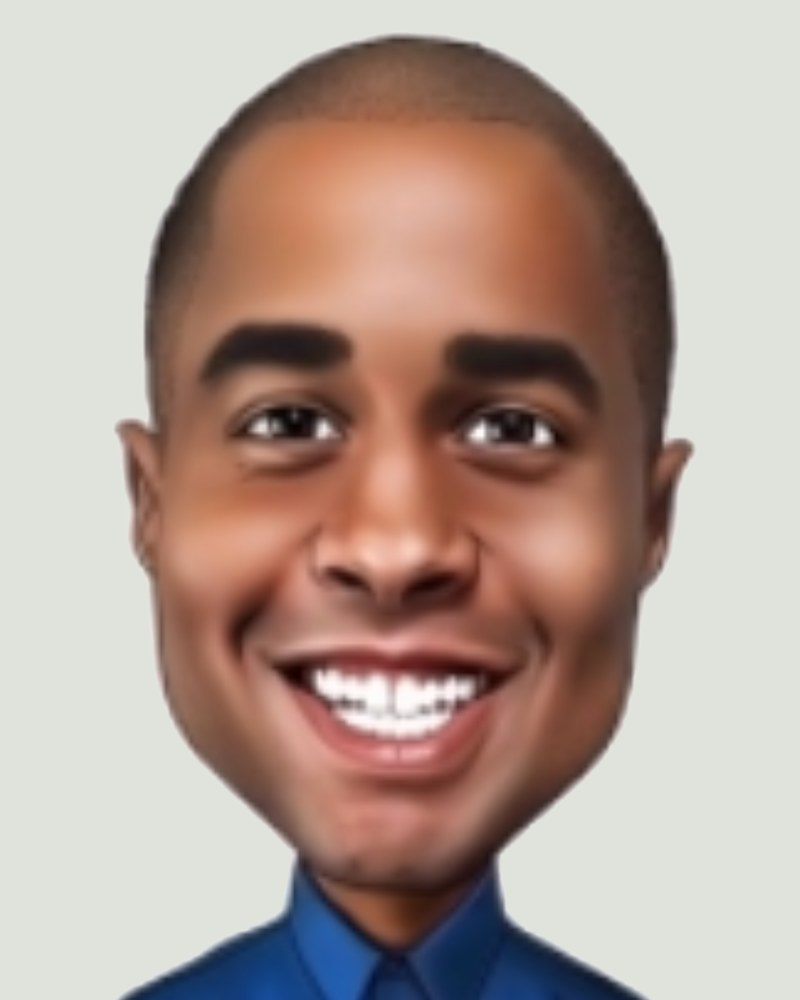
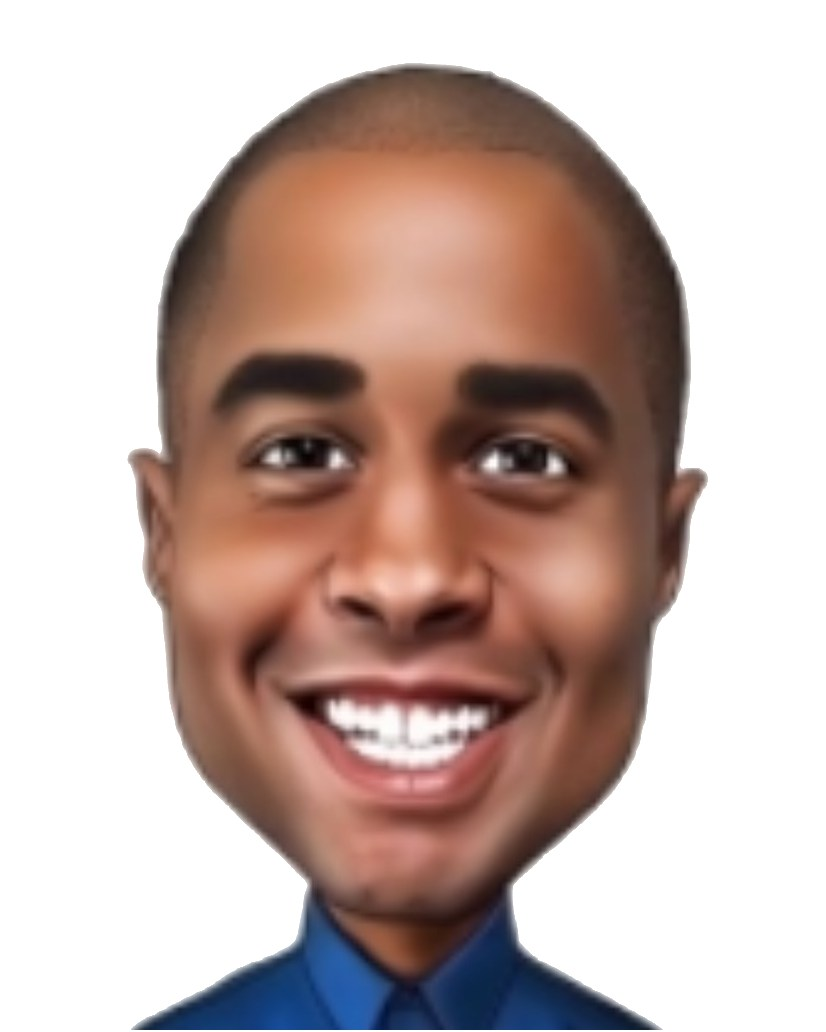
Remove Leslie from team page, whiten Cain's photo, drop review note from footer
- team.html: remove Leslie Buckley's card
- assets/team/cain-piho.jpg: replace grey-green background with white and
  reframe to match the other team portraits
- All pages: drop "Website design concept for review." from the footer

diff --git a/flying-buttress-redesign/team.html b/flying-buttress-redesign/team.html
@@ -61,7 +61,6 @@
 <li><article class="team-card"><figure class="team-photo"><span class="team-initials" aria-hidden="true">NP</span><img src="https://flyingbuttress.com/wp-content/uploads/2021/04/Nick-scaled.jpg" alt="Portrait of Nick Phan" loading="lazy" onerror="this.remove()"/></figure><div class="team-body"><h3>Nick Phan</h3><p class="team-role">Title to confirm</p><a class="team-link" href="https://www.linkedin.com/in/nick-phan-a52b0/" target="_blank" rel="noopener noreferrer" aria-label="Nick Phan on LinkedIn">LinkedIn <span class="arrow" aria-hidden="true">&nearr;</span></a></div></article></li>
 <li><article class="team-card"><figure class="team-photo"><span class="team-initials" aria-hidden="true">JH</span><img src="https://flyingbuttress.com/wp-content/uploads/2021/04/Jon-scaled.jpg" alt="Portrait of Jon Howe" loading="lazy" onerror="this.remove()"/></figure><div class="team-body"><h3>Jon Howe</h3><p class="team-role">Title to confirm</p></div></article></li>
 <li><article class="team-card"><figure class="team-photo"><span class="team-initials" aria-hidden="true">CP</span><img src="assets/team/cain-piho.jpg" alt="Portrait of Cain Piho" loading="lazy" onerror="this.remove()"/></figure><div class="team-body"><h3>Cain Piho</h3><p class="team-role">Title to confirm</p></div></article></li>
-<li><article class="team-card"><figure class="team-photo"><span class="team-initials" aria-hidden="true">LB</span><img src="https://flyingbuttress.com/wp-content/uploads/2021/04/Leslie-scaled.jpg" alt="Portrait of Leslie Buckley" loading="lazy" onerror="this.remove()"/></figure><div class="team-body"><h3>Leslie Buckley</h3><p class="team-role">Title to confirm</p></div></article></li>
 <li><article class="team-card"><figure class="team-photo"><span class="team-initials" aria-hidden="true">BT</span><img src="https://flyingbuttress.com/wp-content/uploads/2021/04/Brittany-scaled.jpg" alt="Portrait of Brittany Tredinnick" loading="lazy" onerror="this.remove()"/></figure><div class="team-body"><h3>Brittany Tredinnick</h3><p class="team-role">Title to confirm</p></div></article></li>
 </ul></div></section>
 <section class="interior-pad"><div class="container"><div class="eyebrow eyebrow-plus">With special assistance from</div>
@@ -85,7 +84,7 @@
   <div><div class="footer-heading">Flying Buttress</div><nav class="footer-links" aria-label="Company navigation"><a href="about.html">Our story</a><a href="team.html">Team</a><a href="contact.html">Get in touch</a><a href="https://www.linkedin.com/company/flying-buttress" target="_blank" rel="noopener noreferrer">LinkedIn &nearr;</a><a href="brand.html">Brand concept</a></nav></div>
   <div class="footer-contact"><div class="footer-heading">Start here</div><p>Architecture, engineering, and design firms deserve a technology partner that knows their world.</p><a href="tel:+19498925075">(949) 892-5075</a><div class="footer-links"><a href="mailto:info@flyingbuttress.com">info@flyingbuttress.com</a></div></div>
  </div>
- <div class="footer-bottom"><span>&copy; 2026 Flying Buttress. Website design concept for review.</span><span>Made for the design world &nbsp; / &nbsp; <a href="contact.html">Contact</a></span></div>
+ <div class="footer-bottom"><span>&copy; 2026 Flying Buttress.</span><span>Made for the design world &nbsp; / &nbsp; <a href="contact.html">Contact</a></span></div>
 </div></footer>
 <script defer src="assets/site.js"></script>
 </body></html>

diff --git a/flying-buttress-redesign/contact.html b/flying-buttress-redesign/contact.html
@@ -48,7 +48,7 @@
   <div><div class="footer-heading">Flying Buttress</div><nav class="footer-links" aria-label="Company navigation"><a href="about.html">Our story</a><a href="team.html">Team</a><a href="contact.html">Get in touch</a><a href="https://www.linkedin.com/company/flying-buttress" target="_blank" rel="noopener noreferrer">LinkedIn &nearr;</a><a href="brand.html">Brand concept</a></nav></div>
   <div class="footer-contact"><div class="footer-heading">Start here</div><p>Architecture, engineering, and design firms deserve a technology partner that knows their world.</p><a href="tel:+19498925075">(949) 892-5075</a><div class="footer-links"><a href="mailto:info@flyingbuttress.com">info@flyingbuttress.com</a></div></div>
  </div>
- <div class="footer-bottom"><span>&copy; 2026 Flying Buttress. Website design concept for review.</span><span>Made for the design world &nbsp; / &nbsp; <a href="contact.html">Contact</a></span></div>
+ <div class="footer-bottom"><span>&copy; 2026 Flying Buttress.</span><span>Made for the design world &nbsp; / &nbsp; <a href="contact.html">Contact</a></span></div>
 </div></footer><script>
 /* Posts the inquiry to the Azure Function at /api/contact. Runs in the capture phase so it replaces the mailto handoff in assets/site.js. */
 (function(){

diff --git a/flying-buttress-redesign/homepage-standalone.html b/flying-buttress-redesign/homepage-standalone.html
@@ -121,7 +121,7 @@ a:focus-visible,button:focus-visible,input:focus-visible,textarea:focus-visible,
 <div><div class="footer-heading">Flying Buttress</div><nav aria-label="Company navigation" class="footer-links"><a href="about.html">Our story</a><a href="team.html">Team</a><a href="contact.html">Get in touch</a><a href="https://www.linkedin.com/company/flying-buttress" rel="noopener noreferrer" target="_blank">LinkedIn ↗</a><a href="brand.html">Brand concept</a></nav></div>
 <div class="footer-contact"><div class="footer-heading">Start here</div><p>Architecture, engineering, and design firms deserve a technology partner that knows their world.</p><a href="tel:+19498925075">(949) 892-5075</a><div class="footer-links"><a href="mailto:info@flyingbuttress.com">info@flyingbuttress.com</a></div></div>
 </div>
-<div class="footer-bottom"><span>© 2026 Flying Buttress. Website design concept for review.</span><span>Made for the design world   /   <a href="contact.html">Contact</a></span></div>
+<div class="footer-bottom"><span>© 2026 Flying Buttress.</span><span>Made for the design world   /   <a href="contact.html">Contact</a></span></div>
 </div></footer>
 <script>(function(){
  'use strict';

diff --git a/flying-buttress-redesign/about.html b/flying-buttress-redesign/about.html
@@ -43,7 +43,7 @@
   <div><div class="footer-heading">Flying Buttress</div><nav class="footer-links" aria-label="Company navigation"><a href="about.html">Our story</a><a href="team.html">Team</a><a href="contact.html">Get in touch</a><a href="https://www.linkedin.com/company/flying-buttress" target="_blank" rel="noopener noreferrer">LinkedIn &nearr;</a><a href="brand.html">Brand concept</a></nav></div>
   <div class="footer-contact"><div class="footer-heading">Start here</div><p>Architecture, engineering, and design firms deserve a technology partner that knows their world.</p><a href="tel:+19498925075">(949) 892-5075</a><div class="footer-links"><a href="mailto:info@flyingbuttress.com">info@flyingbuttress.com</a></div></div>
  </div>
- <div class="footer-bottom"><span>&copy; 2026 Flying Buttress. Website design concept for review.</span><span>Made for the design world &nbsp; / &nbsp; <a href="contact.html">Contact</a></span></div>
+ <div class="footer-bottom"><span>&copy; 2026 Flying Buttress.</span><span>Made for the design world &nbsp; / &nbsp; <a href="contact.html">Contact</a></span></div>
 </div></footer>
 <script defer src="assets/site.js"></script>
 </body></html>

diff --git a/flying-buttress-redesign/brand.html b/flying-buttress-redesign/brand.html
@@ -41,7 +41,7 @@
   <div><div class="footer-heading">Flying Buttress</div><nav class="footer-links" aria-label="Company navigation"><a href="about.html">Our story</a><a href="team.html">Team</a><a href="contact.html">Get in touch</a><a href="https://www.linkedin.com/company/flying-buttress" target="_blank" rel="noopener noreferrer">LinkedIn &nearr;</a><a href="brand.html">Brand concept</a></nav></div>
   <div class="footer-contact"><div class="footer-heading">Start here</div><p>Architecture, engineering, and design firms deserve a technology partner that knows their world.</p><a href="tel:+19498925075">(949) 892-5075</a><div class="footer-links"><a href="mailto:info@flyingbuttress.com">info@flyingbuttress.com</a></div></div>
  </div>
- <div class="footer-bottom"><span>&copy; 2026 Flying Buttress. Website design concept for review.</span><span>Made for the design world &nbsp; / &nbsp; <a href="contact.html">Contact</a></span></div>
+ <div class="footer-bottom"><span>&copy; 2026 Flying Buttress.</span><span>Made for the design world &nbsp; / &nbsp; <a href="contact.html">Contact</a></span></div>
 </div></footer>
 <script defer src="assets/site.js"></script>
 </body></html>

diff --git a/flying-buttress-redesign/index.html b/flying-buttress-redesign/index.html
@@ -77,7 +77,7 @@
   <div><div class="footer-heading">Flying Buttress</div><nav class="footer-links" aria-label="Company navigation"><a href="about.html">Our story</a><a href="team.html">Team</a><a href="contact.html">Get in touch</a><a href="https://www.linkedin.com/company/flying-buttress" target="_blank" rel="noopener noreferrer">LinkedIn &nearr;</a><a href="brand.html">Brand concept</a></nav></div>
   <div class="footer-contact"><div class="footer-heading">Start here</div><p>Architecture, engineering, and design firms deserve a technology partner that knows their world.</p><a href="tel:+19498925075">(949) 892-5075</a><div class="footer-links"><a href="mailto:info@flyingbuttress.com">info@flyingbuttress.com</a></div></div>
  </div>
- <div class="footer-bottom"><span>&copy; 2026 Flying Buttress. Website design concept for review.</span><span>Made for the design world &nbsp; / &nbsp; <a href="contact.html">Contact</a></span></div>
+ <div class="footer-bottom"><span>&copy; 2026 Flying Buttress.</span><span>Made for the design world &nbsp; / &nbsp; <a href="contact.html">Contact</a></span></div>
 </div></footer>
 <script defer src="assets/site.js"></script>
 </body></html>

diff --git a/flying-buttress-redesign/industries.html b/flying-buttress-redesign/industries.html
@@ -46,7 +46,7 @@
   <div><div class="footer-heading">Flying Buttress</div><nav class="footer-links" aria-label="Company navigation"><a href="about.html">Our story</a><a href="team.html">Team</a><a href="contact.html">Get in touch</a><a href="https://www.linkedin.com/company/flying-buttress" target="_blank" rel="noopener noreferrer">LinkedIn &nearr;</a><a href="brand.html">Brand concept</a></nav></div>
   <div class="footer-contact"><div class="footer-heading">Start here</div><p>Architecture, engineering, and design firms deserve a technology partner that knows their world.</p><a href="tel:+19498925075">(949) 892-5075</a><div class="footer-links"><a href="mailto:info@flyingbuttress.com">info@flyingbuttress.com</a></div></div>
  </div>
- <div class="footer-bottom"><span>&copy; 2026 Flying Buttress. Website design concept for review.</span><span>Made for the design world &nbsp; / &nbsp; <a href="contact.html">Contact</a></span></div>
+ <div class="footer-bottom"><span>&copy; 2026 Flying Buttress.</span><span>Made for the design world &nbsp; / &nbsp; <a href="contact.html">Contact</a></span></div>
 </div></footer>
 <script defer src="assets/site.js"></script>
 </body></html>

diff --git a/flying-buttress-redesign/insights.html b/flying-buttress-redesign/insights.html
@@ -50,7 +50,7 @@
   <div><div class="footer-heading">Flying Buttress</div><nav class="footer-links" aria-label="Company navigation"><a href="about.html">Our story</a><a href="team.html">Team</a><a href="contact.html">Get in touch</a><a href="https://www.linkedin.com/company/flying-buttress" target="_blank" rel="noopener noreferrer">LinkedIn &nearr;</a><a href="brand.html">Brand concept</a></nav></div>
   <div class="footer-contact"><div class="footer-heading">Start here</div><p>Architecture, engineering, and design firms deserve a technology partner that knows their world.</p><a href="tel:+19498925075">(949) 892-5075</a><div class="footer-links"><a href="mailto:info@flyingbuttress.com">info@flyingbuttress.com</a></div></div>
  </div>
- <div class="footer-bottom"><span>&copy; 2026 Flying Buttress. Website design concept for review.</span><span>Made for the design world &nbsp; / &nbsp; <a href="contact.html">Contact</a></span></div>
+ <div class="footer-bottom"><span>&copy; 2026 Flying Buttress.</span><span>Made for the design world &nbsp; / &nbsp; <a href="contact.html">Contact</a></span></div>
 </div></footer>
 <script defer src="assets/site.js"></script>
 </body></html>

diff --git a/flying-buttress-redesign/services.html b/flying-buttress-redesign/services.html
@@ -41,7 +41,7 @@
   <div><div class="footer-heading">Flying Buttress</div><nav class="footer-links" aria-label="Company navigation"><a href="about.html">Our story</a><a href="team.html">Team</a><a href="contact.html">Get in touch</a><a href="https://www.linkedin.com/company/flying-buttress" target="_blank" rel="noopener noreferrer">LinkedIn &nearr;</a><a href="brand.html">Brand concept</a></nav></div>
   <div class="footer-contact"><div class="footer-heading">Start here</div><p>Architecture, engineering, and design firms deserve a technology partner that knows their world.</p><a href="tel:+19498925075">(949) 892-5075</a><div class="footer-links"><a href="mailto:info@flyingbuttress.com">info@flyingbuttress.com</a></div></div>
  </div>
- <div class="footer-bottom"><span>&copy; 2026 Flying Buttress. Website design concept for review.</span><span>Made for the design world &nbsp; / &nbsp; <a href="contact.html">Contact</a></span></div>
+ <div class="footer-bottom"><span>&copy; 2026 Flying Buttress.</span><span>Made for the design world &nbsp; / &nbsp; <a href="contact.html">Contact</a></span></div>
 </div></footer>
 <script defer src="assets/site.js"></script>
 </body></html>

diff --git a/flying-buttress-redesign/work.html b/flying-buttress-redesign/work.html
@@ -57,7 +57,7 @@
   <div><div class="footer-heading">Flying Buttress</div><nav class="footer-links" aria-label="Company navigation"><a href="about.html">Our story</a><a href="team.html">Team</a><a href="contact.html">Get in touch</a><a href="https://www.linkedin.com/company/flying-buttress" target="_blank" rel="noopener noreferrer">LinkedIn &nearr;</a><a href="brand.html">Brand concept</a></nav></div>
   <div class="footer-contact"><div class="footer-heading">Start here</div><p>Architecture, engineering, and design firms deserve a technology partner that knows their world.</p><a href="tel:+19498925075">(949) 892-5075</a><div class="footer-links"><a href="mailto:info@flyingbuttress.com">info@flyingbuttress.com</a></div></div>
  </div>
- <div class="footer-bottom"><span>&copy; 2026 Flying Buttress. Website design concept for review.</span><span>Made for the design world &nbsp; / &nbsp; <a href="contact.html">Contact</a></span></div>
+ <div class="footer-bottom"><span>&copy; 2026 Flying Buttress.</span><span>Made for the design world &nbsp; / &nbsp; <a href="contact.html">Contact</a></span></div>
 </div></footer>
 <script defer src="assets/site.js"></script>
 </body></html>
